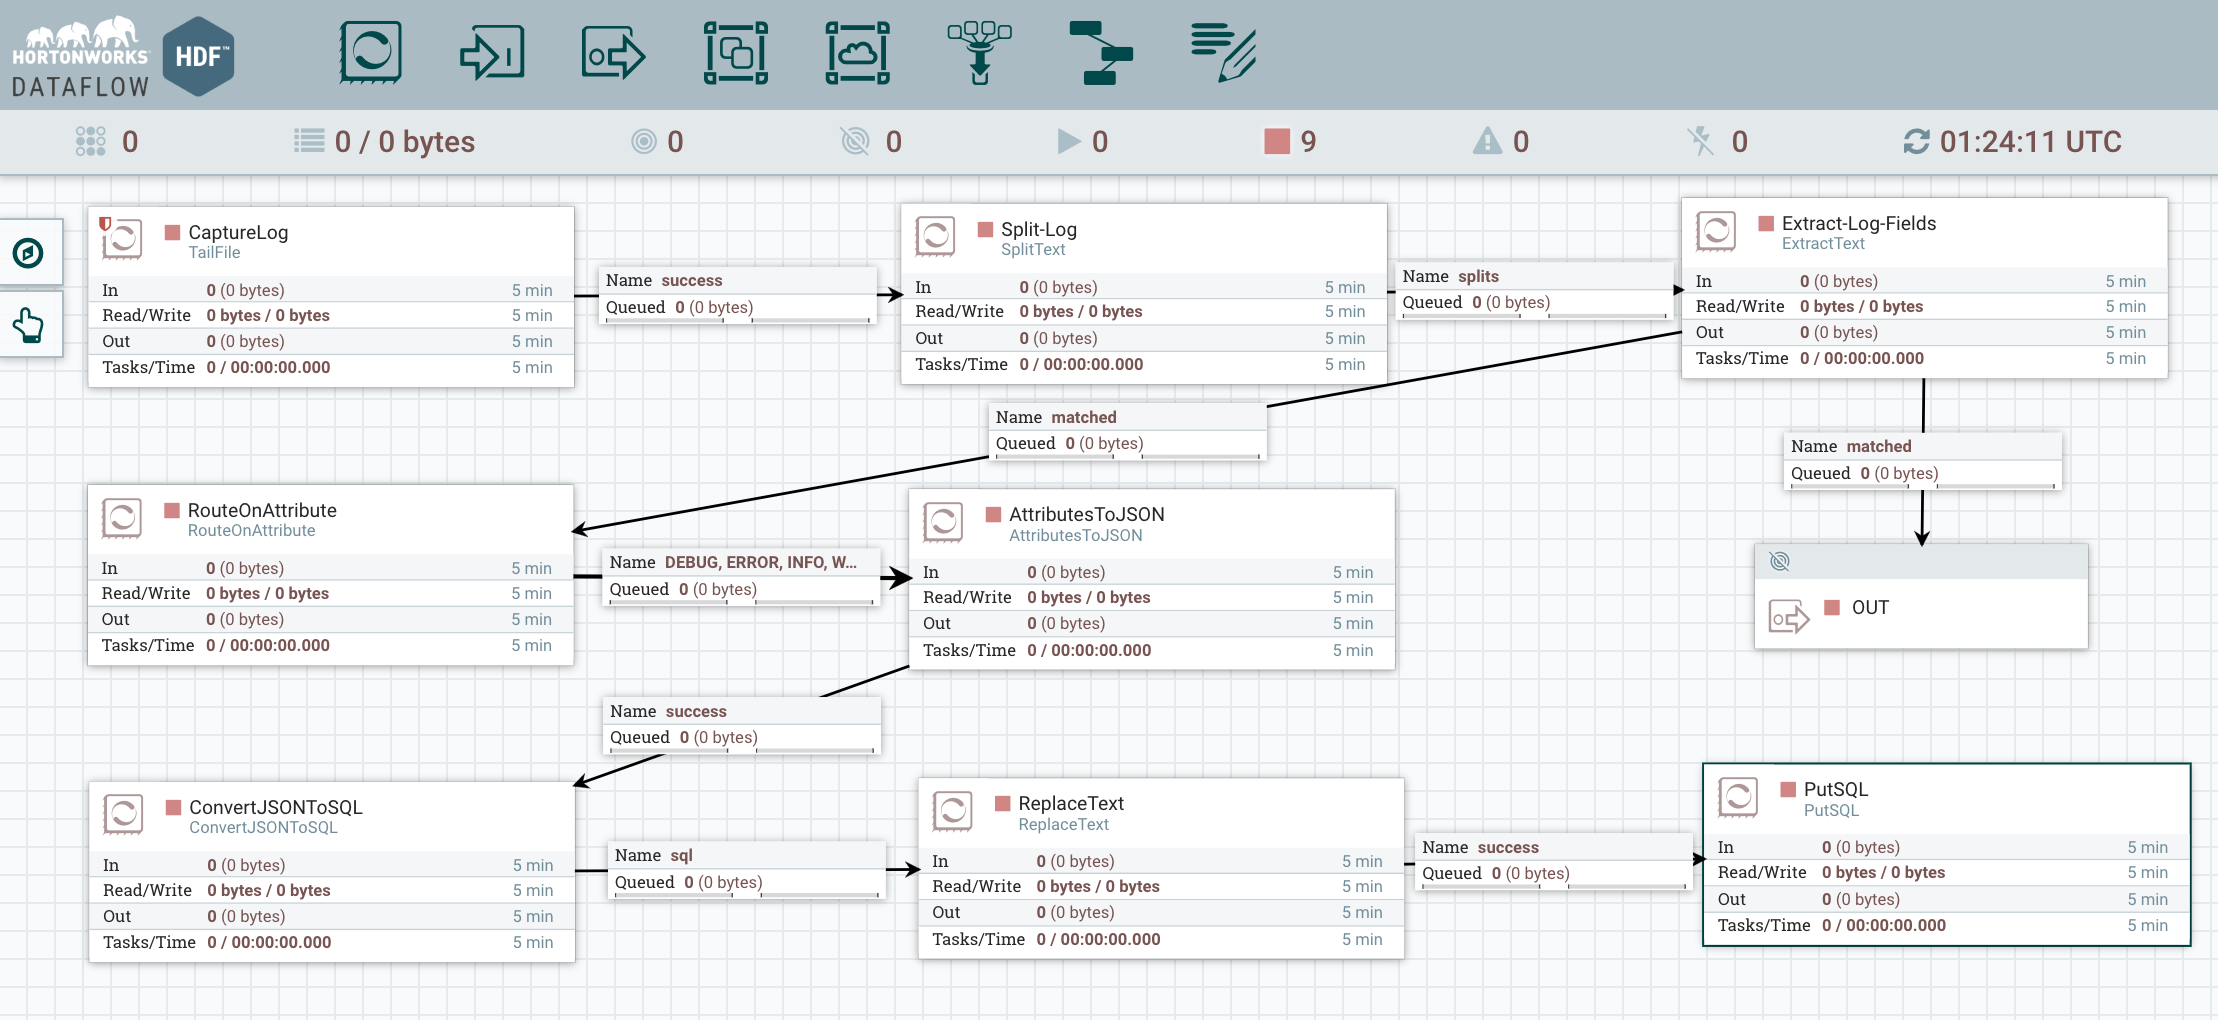
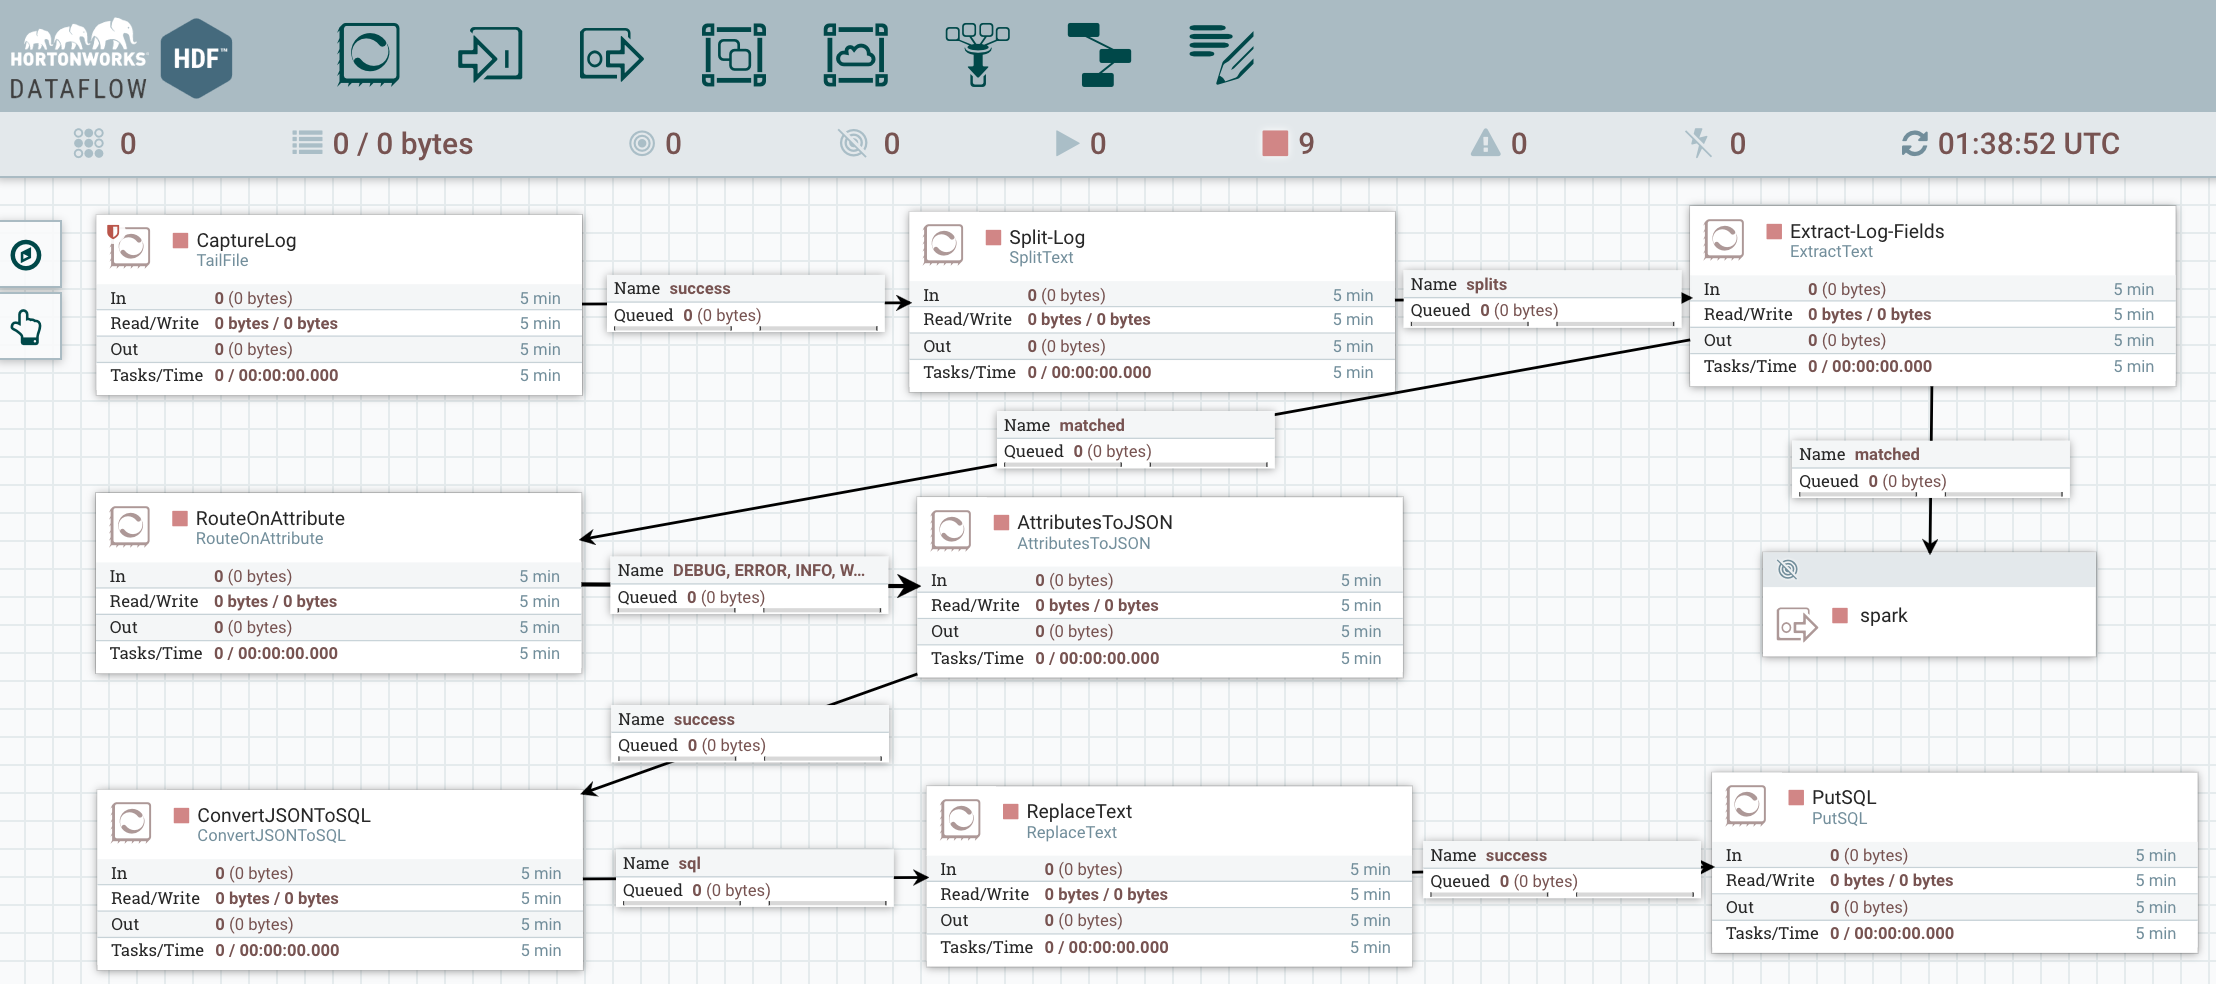
Update Code
Update Code

Changed region(s): [[0.0, 0.0, 1.0, 1.0]]

diff --git a/README.md b/README.md
@@ -69,8 +69,8 @@ For Spark, we will use this same mechanism - we will use the Site-to-Site protoc
 4) Execute below in the Phoenix shell to create tables in Hbase:
 
 ```
-CREATE TABLE NIFI_SPARK( UUID VARCHAR NOT NULL, EVENT_DATE VARCHAR, BULLETIN_LEVEL VARCHAR, EVENT_TYPE VARCHAR, CONTENT VARCHAR CONSTRAINT pk PRIMARY KEY(UUID));
-CREATE TABLE NIFI_SPARK_DIRECT( UUID VARCHAR NOT NULL, EVENT_DATE VARCHAR, BULLETIN_LEVEL VARCHAR, EVENT_TYPE VARCHAR, CONTENT VARCHAR CONSTRAINT pk PRIMARY KEY(UUID));
+CREATE TABLE NIFI_LOG( UUID VARCHAR NOT NULL, EVENT_DATE VARCHAR, BULLETIN_LEVEL VARCHAR, EVENT_TYPE VARCHAR, CONTENT VARCHAR CONSTRAINT pk PRIMARY KEY(UUID));
+CREATE TABLE NIFI_DIRECT( UUID VARCHAR NOT NULL, EVENT_DATE VARCHAR, BULLETIN_LEVEL VARCHAR, EVENT_TYPE VARCHAR, CONTENT VARCHAR CONSTRAINT pk PRIMARY KEY(UUID));
 
 ```
 
